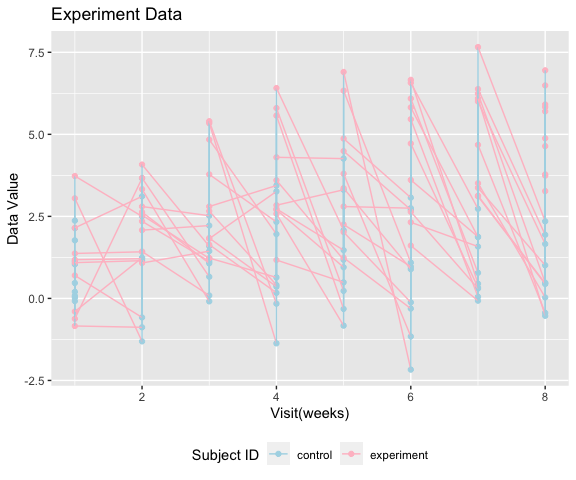
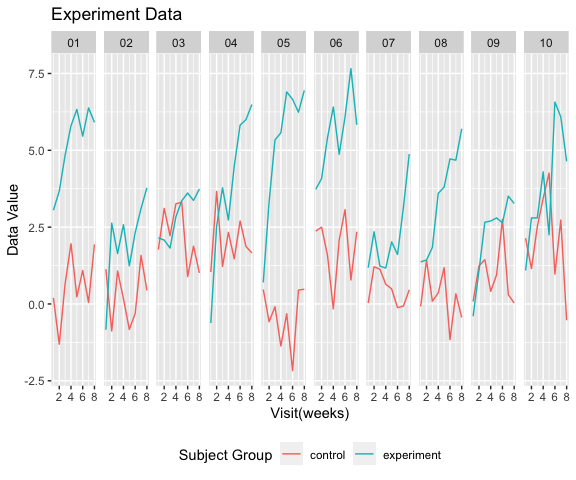
Updated plots for problem 2. Simulated dataset for problem 3.

diff --git a/mf3593.md b/mf3593.md
@@ -64,6 +64,7 @@ all_city_df|>
 ```
 
 <img src="mf3593_files/figure-gfm/unnamed-chunk-1-1.png" width="90%" />
+
 The raw data has 52179 rows and 13 columns. It contains the following
 variables: uid, reported_date, victim_last, victim_first, victim_race,
 victim_age, victim_sex, city, state, lat, lon, disposition, city_state.
@@ -99,19 +100,50 @@ files|>pivot_longer(
     values_to="data"
   )|>
   mutate(visit=as.numeric(visit))|>
-  ggplot(aes(x=visit,y=data,group=ID,color=group))+
-  geom_point()+
+  ggplot(aes(x=visit,y=data,color=group))+
   geom_line()+
-  scale_color_manual(values=c("control"="lightblue","experiment"="pink"))+
+  facet_grid(~ID)+
   theme(legend.position="bottom")+
   labs(
     title="Experiment Data",
     x="Visit(weeks)",
     y="Data Value",
-    color="Subject ID"
+    color="Subject Group"
   )
 ```
 
 <img src="mf3593_files/figure-gfm/unnamed-chunk-2-1.png" width="90%" />
 
 ### Problem 3
+
+``` r
+set.seed(1)
+
+sim_mean_p=function(samp_size=30,mu,sigma=5) {
+
+  x=rnorm(n=samp_size,mean=mu,sd=sigma)
+  result=t.test(x,mu=mu,conf.level=0.95)|>
+    broom::tidy()
+  
+  return(tibble(mu_hat=pull(result,estimate),
+         p_value=pull(result,p.value),
+          mu_value=mu))
+}
+
+output=vector("list",5000)
+for (i in 1:5000) {
+  output[[i]]=sim_mean_p(mu=0)
+}
+sim_results=bind_rows(output)
+
+output2=vector("list",30000)
+main_output=vector("list",6)
+
+for (a in 1:6){
+  for (i in 1:5000) {
+  output2[[i]]=sim_mean_p(mu=a)
+  }
+  main_output[[a]]=bind_rows(output2)
+}
+sim_results_2=bind_rows(main_output)
+```
